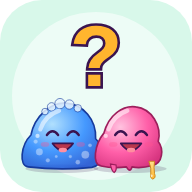
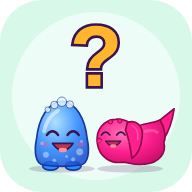
Quem é? 0.2.2: Pink Honey pelas fotos (rosa-choque, deitada, aba e rabinho), Melekento Blue em pé
Claude-Session: https://claude.ai/code/session_017kvDvUikpGBPQd1UTs968F

Changed region(s): [[0.0938, 0.5, 0.9375, 0.9375], [0.8438, 0.875, 0.875, 0.9062]]

diff --git a/quem-e/melecas.js b/quem-e/melecas.js
@@ -1,8 +1,9 @@
 /* Quem é? — as duas melecas das filhas do dono, desenhadas em SVG no código:
-     Melekento Blue — espuma com jeito de geleia azul, translúcida, com bolhinhas dentro e espuminha em cima;
-     Pink Honey     — melequinha rosa brilhante que escorre, com um fio de mel dourado.
-   Desenhadas pela descrição do dono (14/Nov/2026). Quando chegar a foto das massinhas de verdade, ajustar aqui
-   (cores em LISTA e CORES, formato em CORPO). Pendência no PENDENCIAS.md do jogo.
+     Melekento Blue — geleia azul mole, translúcida, EM PÉ, com dois pezinhos, bolhinhas dentro e espuminha em cima
+                      (descrição do dono, 14/Nov/2026; dois olhos, para não parecer nenhum monstro de desenho);
+     Pink Honey     — bichinho mole de borracha rosa-choque FOSCO, deitado: cabeça com olhinhos e narizinho em bolinhas,
+                      uma aba atrás da cabeça, corpo redondo e rabinho pontudo (fotos e vídeo do dono, 14/Nov/2026).
+   Cores em LISTA e CORES, formato em CORPO.
 
    QEMelecas.svg(id, humor, op) → texto SVG (200 × 200)
      id     'blue' | 'pink'
@@ -14,16 +15,16 @@
   'use strict';
   var LISTA = [
     { id: 'blue', nome: 'Melekento Blue', cor: '#2e8bff' },
-    { id: 'pink', nome: 'Pink Honey', cor: '#ff5fa8' }
+    { id: 'pink', nome: 'Pink Honey', cor: '#ff1f8e' }
   ];
   var CORES = {
     blue: { claro: '#a8dcff', meio: '#2e8bff', escuro: '#1b4fd1', contorno: '#163a9c' },
-    pink: { claro: '#ffc2df', meio: '#ff5fa8', escuro: '#d6347f', contorno: '#9c1f5c' }
+    pink: { claro: '#ff74b8', meio: '#ff1f8e', escuro: '#c80f6b', contorno: '#8f0a4c' }
   };
-  var MEL = '#ffb52e', TINTA = '#3a1450';
+  var TINTA = '#3a1450';
   var CORPO = {
-    blue: 'M28,172 C8,170 12,126 34,104 C42,64 76,34 108,36 C146,38 174,72 172,112 C190,128 192,168 164,173 Q96,180 28,172Z',
-    pink: 'M38,170 C18,168 24,124 44,100 C54,62 84,40 112,44 C146,48 168,84 160,118 C172,134 170,164 148,169 Q122,176 104,172 Q100,186 92,172 Q64,176 38,170Z'
+    blue: 'M60,168 C44,166 40,140 46,112 C50,70 70,34 100,32 C130,34 150,70 154,112 C160,140 156,166 140,168 Q100,174 60,168Z',
+    pink: 'M30,122 C26,92 44,72 70,70 C90,68 104,80 112,86 C130,80 150,78 164,72 C176,92 176,112 172,120 C178,142 162,164 132,166 C110,170 96,162 84,162 C60,166 34,152 30,122Z'
   };
 
   function n(v) { return Math.round(v * 10) / 10; }
@@ -35,28 +36,30 @@
   function defs(id, I) {
     var c = CORES[id];
     return '<defs><radialGradient id="' + I + 'co" cx="38%" cy="32%" r="75%"><stop offset="0" stop-color="' + c.claro + '"/><stop offset=".55" stop-color="' + c.meio + '"/><stop offset="1" stop-color="' + c.escuro + '"/></radialGradient>' +
-      '<linearGradient id="' + I + 'me" x1="0" y1="0" x2="0" y2="1"><stop offset="0" stop-color="#ffe08a"/><stop offset="1" stop-color="' + MEL + '"/></linearGradient></defs>';
+      '</defs>';
   }
 
   function corpo(id, I) {
-    var c = CORES[id], s = elip(100, 176, 78, 9, { fill: TINTA, opacity: 0.18 });
+    var c = CORES[id], s = elip(100, 176, 70, 8, { fill: TINTA, opacity: 0.18 }), traco = { stroke: c.contorno, 'stroke-width': 3.5, 'stroke-linejoin': 'round' };
     if (id === 'blue') {
-      s += p(CORPO.blue, { fill: 'url(#' + I + 'co)', 'fill-opacity': 0.88, stroke: c.contorno, 'stroke-width': 3.5, 'stroke-linejoin': 'round' });
-      // bolhinhas dentro da geleia
-      [[52, 140, 7], [70, 158, 4], [150, 146, 8], [134, 162, 4.5], [160, 126, 3.5], [44, 118, 4], [118, 150, 3], [88, 150, 2.6]].forEach(function (b) {
+      // pezinhos (atrás do corpo), corpo de geleia em pé, bolhinhas e espuminha
+      s += '<g class="qm-pes">' + elip(76, 170, 17, 9, Object.assign({ fill: c.meio }, traco)) + elip(124, 170, 17, 9, Object.assign({ fill: c.meio }, traco)) + '</g>';
+      s += p(CORPO.blue, Object.assign({ fill: 'url(#' + I + 'co)', 'fill-opacity': 0.88 }, traco));
+      [[66, 146, 6], [84, 158, 3.5], [138, 140, 7], [124, 156, 4], [142, 118, 3], [58, 122, 3.5], [110, 150, 2.6]].forEach(function (b) {
         s += circ(b[0], b[1], b[2], { fill: '#ffffff', opacity: 0.4, stroke: '#ffffff', 'stroke-width': 1, 'stroke-opacity': 0.7 });
       });
-      // espuminha em cima
-      [[78, 44, 9], [96, 37, 11], [116, 39, 10], [134, 47, 8], [64, 54, 7]].forEach(function (b) { s += circ(b[0], b[1], b[2], { fill: '#e6f4ff', opacity: 0.85, stroke: c.contorno, 'stroke-width': 1.5 }); });
+      [[84, 40, 8], [100, 33, 10], [117, 39, 8], [70, 50, 6]].forEach(function (b) { s += circ(b[0], b[1], b[2], { fill: '#e6f4ff', opacity: 0.85, stroke: c.contorno, 'stroke-width': 1.5 }); });
+      s += p('M62,96 Q68,66 92,52', { fill: 'none', stroke: '#ffffff', 'stroke-width': 8, 'stroke-linecap': 'round', opacity: 0.5 });
     } else {
-      s += p(CORPO.pink, { fill: 'url(#' + I + 'co)', stroke: c.contorno, 'stroke-width': 3.5, 'stroke-linejoin': 'round' });
-      // pingos rosa escorrendo e o fio de mel
-      s += p('M58,166 Q60,180 66,184 Q72,180 70,168Z', { fill: c.meio, stroke: c.contorno, 'stroke-width': 2.5 }) +
-        '<g class="qm-mel">' + p('M140,160 Q146,176 144,188 Q142,196 148,198 Q156,196 152,186 Q150,174 152,160Z', { fill: 'url(#' + I + 'me)', stroke: '#c9841a', 'stroke-width': 2 }) +
-        elip(146, 191, 2, 3, { fill: '#fff', opacity: 0.7 }) + '</g>';
+      // rabinho pontudo, corpo deitado, a aba atrás da cabeça e as bolinhas da cabeça (como nas fotos)
+      s += '<g class="qm-rabo">' + p('M156,78 L194,48 C190,76 182,98 170,116Z', Object.assign({ fill: c.meio }, traco)) + '</g>';
+      s += p(CORPO.pink, Object.assign({ fill: 'url(#' + I + 'co)' }, traco));
+      s += '<g class="qm-aba">' + p('M94,78 C112,70 128,84 126,106 C124,128 116,146 104,154 C100,132 98,110 90,94Z', Object.assign({ fill: c.meio }, traco)) +
+        p('M104,84 C114,88 118,100 116,114', { fill: 'none', stroke: c.claro, 'stroke-width': 3, 'stroke-linecap': 'round', opacity: 0.6 }) + '</g>';
+      s += circ(34, 116, 5, Object.assign({ fill: c.meio }, traco, { 'stroke-width': 2 })) + circ(58, 76, 4.5, Object.assign({ fill: c.meio }, traco, { 'stroke-width': 2 })) + circ(78, 74, 4.5, Object.assign({ fill: c.meio }, traco, { 'stroke-width': 2 }));
+      // fosco: só um reflexo suave
+      s += p('M132,96 Q148,92 158,98', { fill: 'none', stroke: '#ffffff', 'stroke-width': 6, 'stroke-linecap': 'round', opacity: 0.22 });
     }
-    // brilho grande e molhado
-    s += p('M54,92 Q64,62 94,52', { fill: 'none', stroke: '#ffffff', 'stroke-width': 9, 'stroke-linecap': 'round', opacity: 0.55 }) + circ(48, 106, 4.5, { fill: '#fff', opacity: 0.6 });
     return s;
   }
 
@@ -69,6 +72,8 @@
     return s;
   }
 
+  // a Pink tem a cara na cabeça, à esquerda e menor; o Blue, no meio do corpo
+  var LUGAR_CARA = { blue: '', pink: 'translate(64 112) scale(.74) translate(-102 -115)' };
   function cara(humor) {
     var s = olho(80, 100, humor, -1) + olho(124, 100, humor, 1);
     if (humor === 'feliz' || humor === 'parada' || humor === 'falando') s += elip(64, 124, 9, 5, { fill: '#ff4f8f', opacity: 0.35 }) + elip(140, 124, 9, 5, { fill: '#ff4f8f', opacity: 0.35 });
@@ -87,7 +92,7 @@
     humor = humor || 'parada';
     var I = (op && op.id) || 'qm';
     return '<svg xmlns="http://www.w3.org/2000/svg" viewBox="0 0 200 200" role="img">' + defs(id, I) +
-      '<g class="qm-' + id + ' ' + (ANIM[humor] || 'qm-respira') + '">' + corpo(id, I) + cara(humor) + '</g></svg>';
+      '<g class="qm-' + id + ' ' + (ANIM[humor] || 'qm-respira') + '">' + corpo(id, I) + (LUGAR_CARA[id] ? '<g transform="' + LUGAR_CARA[id] + '">' + cara(humor) + '</g>' : cara(humor)) + '</g></svg>';
   }
 
   var M = { LISTA: LISTA, svg: svg };

diff --git a/quem-e/sw.js b/quem-e/sw.js
@@ -3,7 +3,7 @@
    Músicas gravadas (*.mp3, das pastas de outros jogos): o service worker não mexe (o navegador busca direto).
    Cache com o nome do app: só apaga caches "quem-e-" (nunca os dos outros apps da mesma origem).
    Subir VERSAO a cada release (igual a APP_VERSION em app.js e a versoes.json). */
-var VERSAO = '0.2.1';
+var VERSAO = '0.2.2';
 var CACHE = 'quem-e-v' + VERSAO;
 var ARQUIVOS = ['./', 'index.html', 'estilo.css', 'nomes.js', 'logica.js', 'partida.js', 'caras.js', 'melecas.js', 'rede.js', 'adivinha-perguntas.js', 'adivinha.js', 'aprender.js', 'voz.js', 'personagens/familia.js', 'personagens/disney.js', 'personagens/desenhos.js', 'personagens/filmes.js', 'personagens/musica.js', 'personagens/famosos.js', 'personagens/mundo.js', 'app.js', 'adivinha-tela.js', 'icone.svg', 'icone-192.png', 'icone-512.png', 'manifest.webmanifest', 'versoes.json', '../rabiscolandia/fontes/fredoka.woff2', '../recursos.js', '../idioma.js', '../navegacao.js', '../janela.js', '../cofre.js', '../atualizar.js', '../telacheia.js', '../trilha.js'];
 self.addEventListener('install', function (e) {

diff --git a/quem-e/teste/melecas.test.js b/quem-e/teste/melecas.test.js
@@ -26,13 +26,13 @@ test('cada meleca em cada humor: SVG válido, ids com prefixo, humores diferente
   }
 });
 
-test('Melekento Blue: azul translúcido com bolhas; Pink Honey: rosa com fio de mel', () => {
+test('Melekento Blue: geleia azul em pé, com pezinhos; Pink Honey: rosa-choque fosco, deitada, com rabinho pontudo (fotos do dono)', () => {
   const b = M.svg('blue', 'parada', { id: 'b' }), p = M.svg('pink', 'parada', { id: 'p' });
   assert.match(b, /opacity="0?\.\d+"/);
-  assert.ok((b.match(/<circle/g) || []).length >= 6, 'poucas bolhas');
-  assert.ok(b.includes('qm-blue'));
-  assert.ok(p.includes('qm-mel'), 'sem fio de mel');
-  assert.ok(p.includes('qm-pink'));
+  assert.ok(b.includes('qm-blue') && b.includes('qm-pes'), 'Blue sem pezinhos');
+  assert.ok(p.includes('qm-pink') && p.includes('qm-rabo') && p.includes('qm-aba'), 'Pink sem rabinho ou sem a aba');
+  assert.ok(!p.includes('qm-mel'), 'a Pink de verdade não tem fio de mel');
+  assert.ok(/#ff1f8e/i.test(p), 'Pink sem o rosa-choque das fotos');
 });
 
 test('classe de animação por humor', () => {

diff --git a/quem-e/app.js b/quem-e/app.js
@@ -4,7 +4,7 @@
    Guarda só neste aparelho (localStorage "bolinho:quem-e:pref"): idioma, sons, voz e a meleca escolhida. */
 (function () {
   'use strict';
-  var APP_VERSION = '0.2.1';
+  var APP_VERSION = '0.2.2';
   var APP_DATA = '14/Nov/2026', APP_DATA_EN = 'Nov/14/2026';
   var L = window.QELogica, QP = window.QEPartida, CARAS = window.QECaras, MEL = window.QEMelecas, REDE = window.QERede;
   var $ = function (id) { return document.getElementById(id); };

diff --git a/quem-e/teste/pagina.test.js b/quem-e/teste/pagina.test.js
@@ -24,7 +24,7 @@ test('CSP sem script inline nem eval', () => {
 
 test('navegação padrão e versão', () => {
   assert.match(app, /BolinhoNav\.iniciar\(\{\s*jogo: 'quem-e'/);
-  assert.match(app, /var APP_VERSION = '0\.2\.1'/);
+  assert.match(app, /var APP_VERSION = '0\.2\.2'/);
 });
 
 test('trilha: pelo menos 10 músicas gravadas que existem', () => {

diff --git a/quem-e/PENDENCIAS.md b/quem-e/PENDENCIAS.md
@@ -4,7 +4,7 @@ Situação: 🟡 aberta · 🔵 em andamento · ⏸ aguardando o dono · ✅ fei
 
 | # | Descrição | Origem | Situação |
 |---|---|---|---|
-| 1 | Ajustar o desenho do Melekento Blue e da Pink Honey pela foto das massinhas de verdade (cor, textura, formato). Hoje estão desenhados pela descrição do dono. | Dono, 14/Nov/2026 | ⏸ aguardando a foto das massinhas |
+| 1 | Ajustar o desenho do Melekento Blue e da Pink Honey pela foto das massinhas de verdade (cor, textura, formato). | Dono, 14/Nov/2026 | ✅ 0.2.2: Pink Honey pelas fotos e vídeo (rosa-choque fosco, deitada, aba atrás da cabeça, rabinho pontudo); Melekento Blue pela descrição (geleia azul mole, em pé, com pezinhos). Foto do Blue, se o dono quiser, ajusta mais |
 | 2 | Testar com as meninas no celular, no tablet e na TV (espelhando a tela): Fácil, Médio e Difícil, contra a meleca e passando o aparelho. | Entrega 0.1.0 | 🟡 |
 | 3 | Testar "cada um no seu celular" em dois celulares de verdade (internet de verdade). | Entrega 0.1.0 | 🟡 |
 | 4 | Duelo de Caras com **corpo inteiro**: sapato, saia, short, calça, com perguntas novas de roupa. | Dono, 14/Nov/2026 | 🟡 próxima versão do Duelo |
